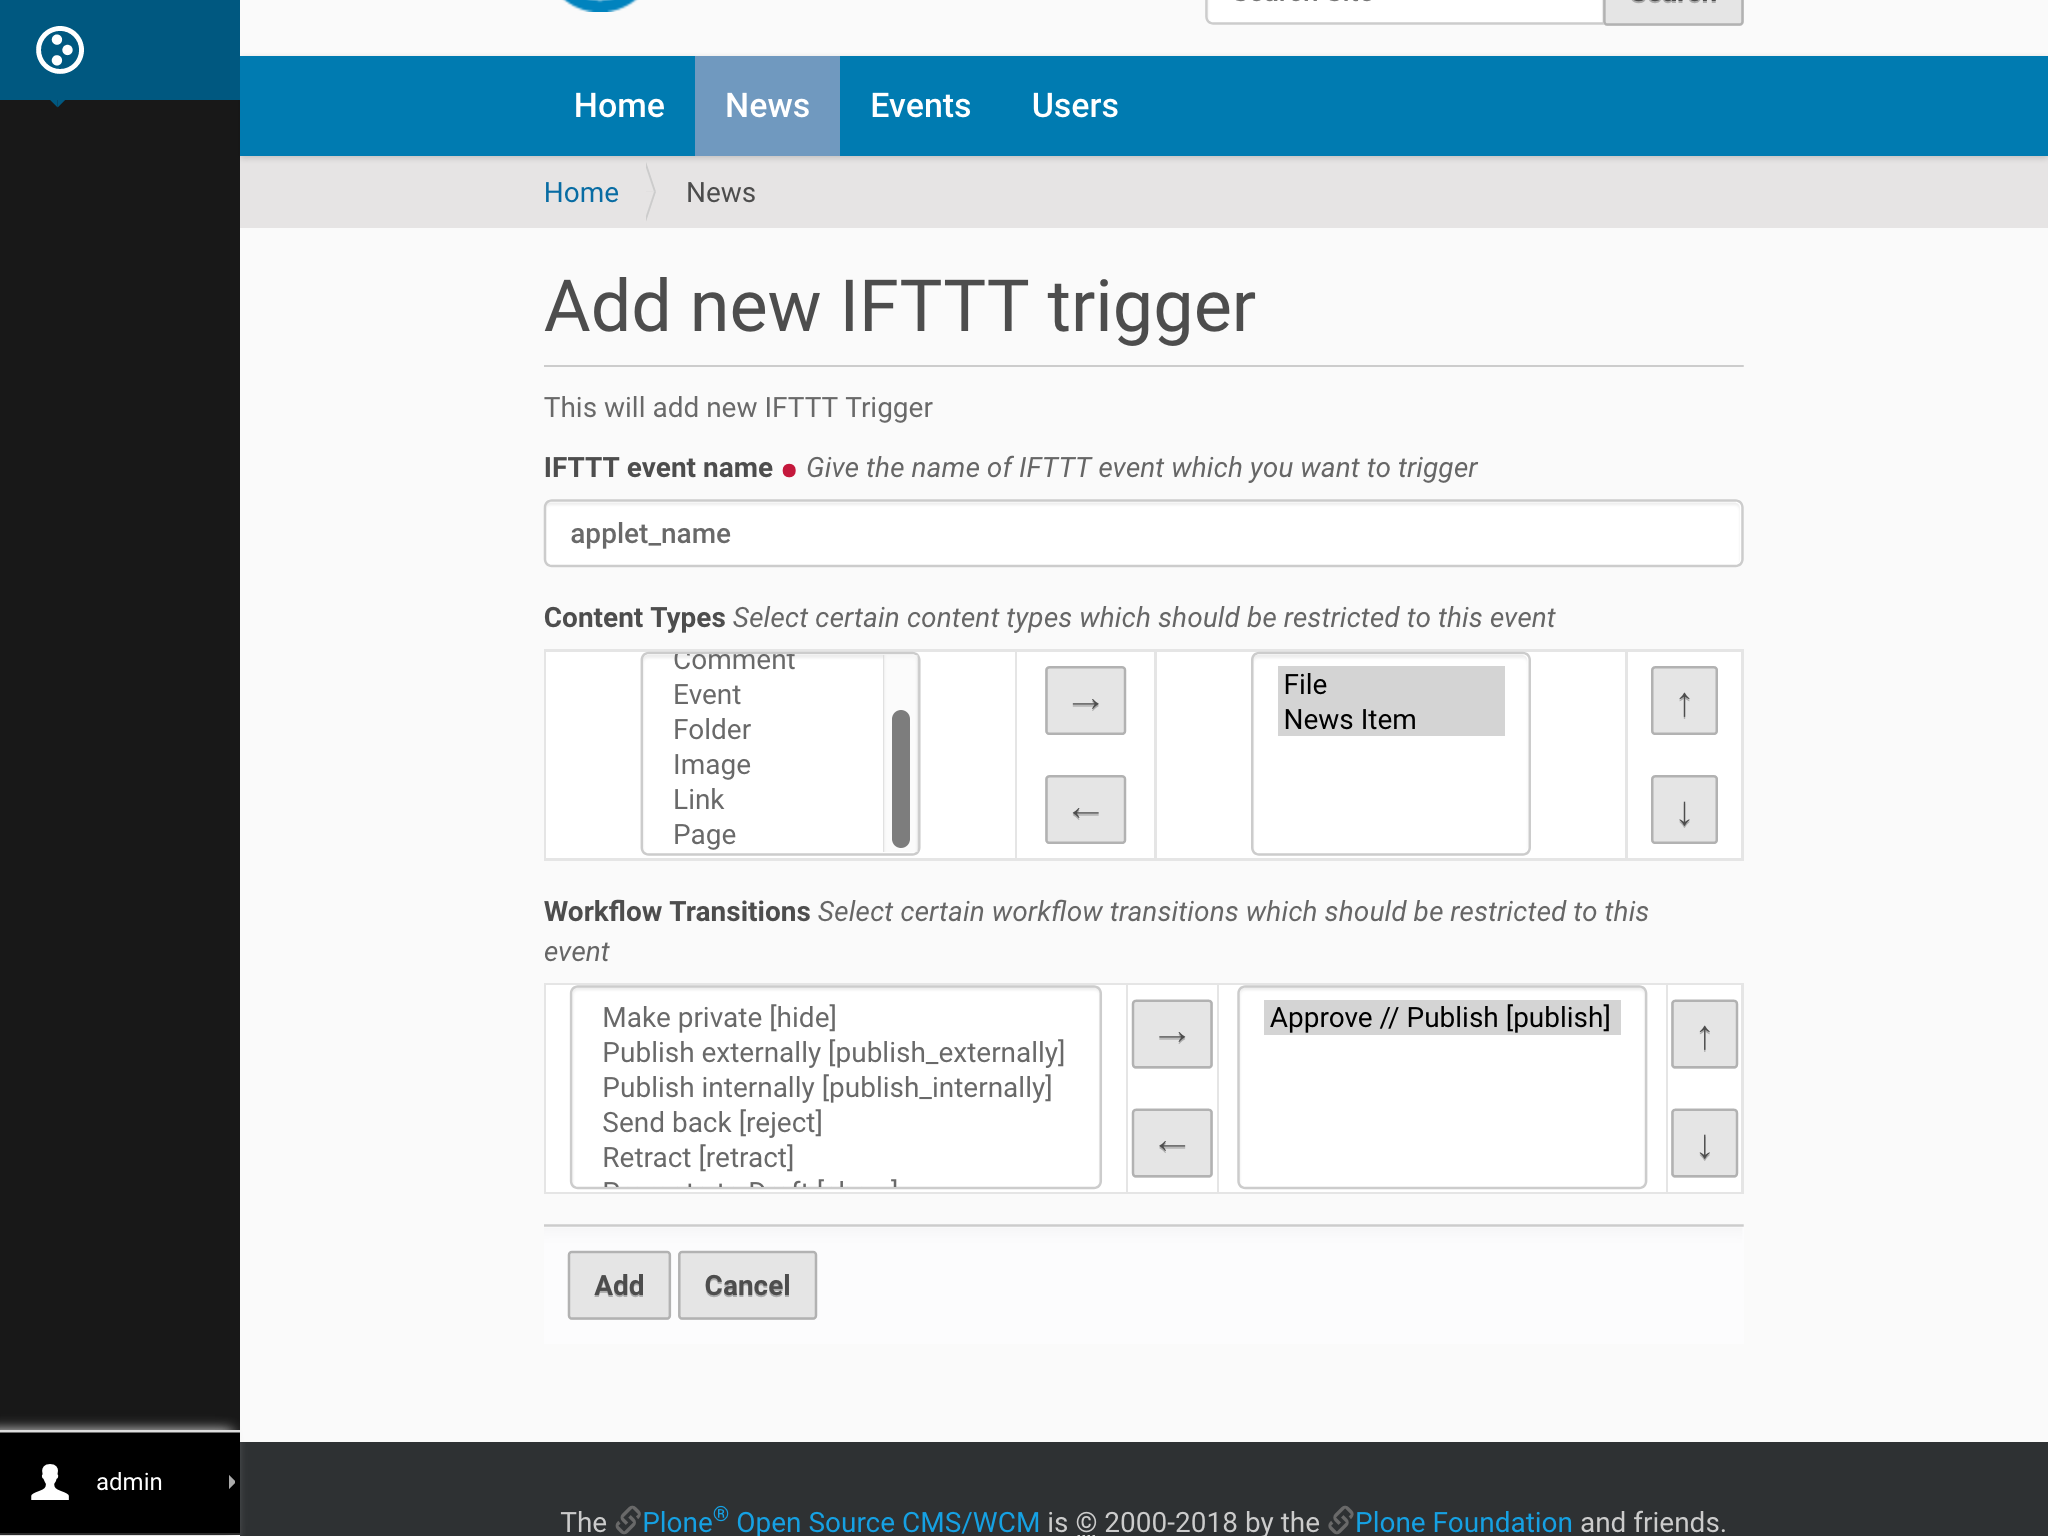
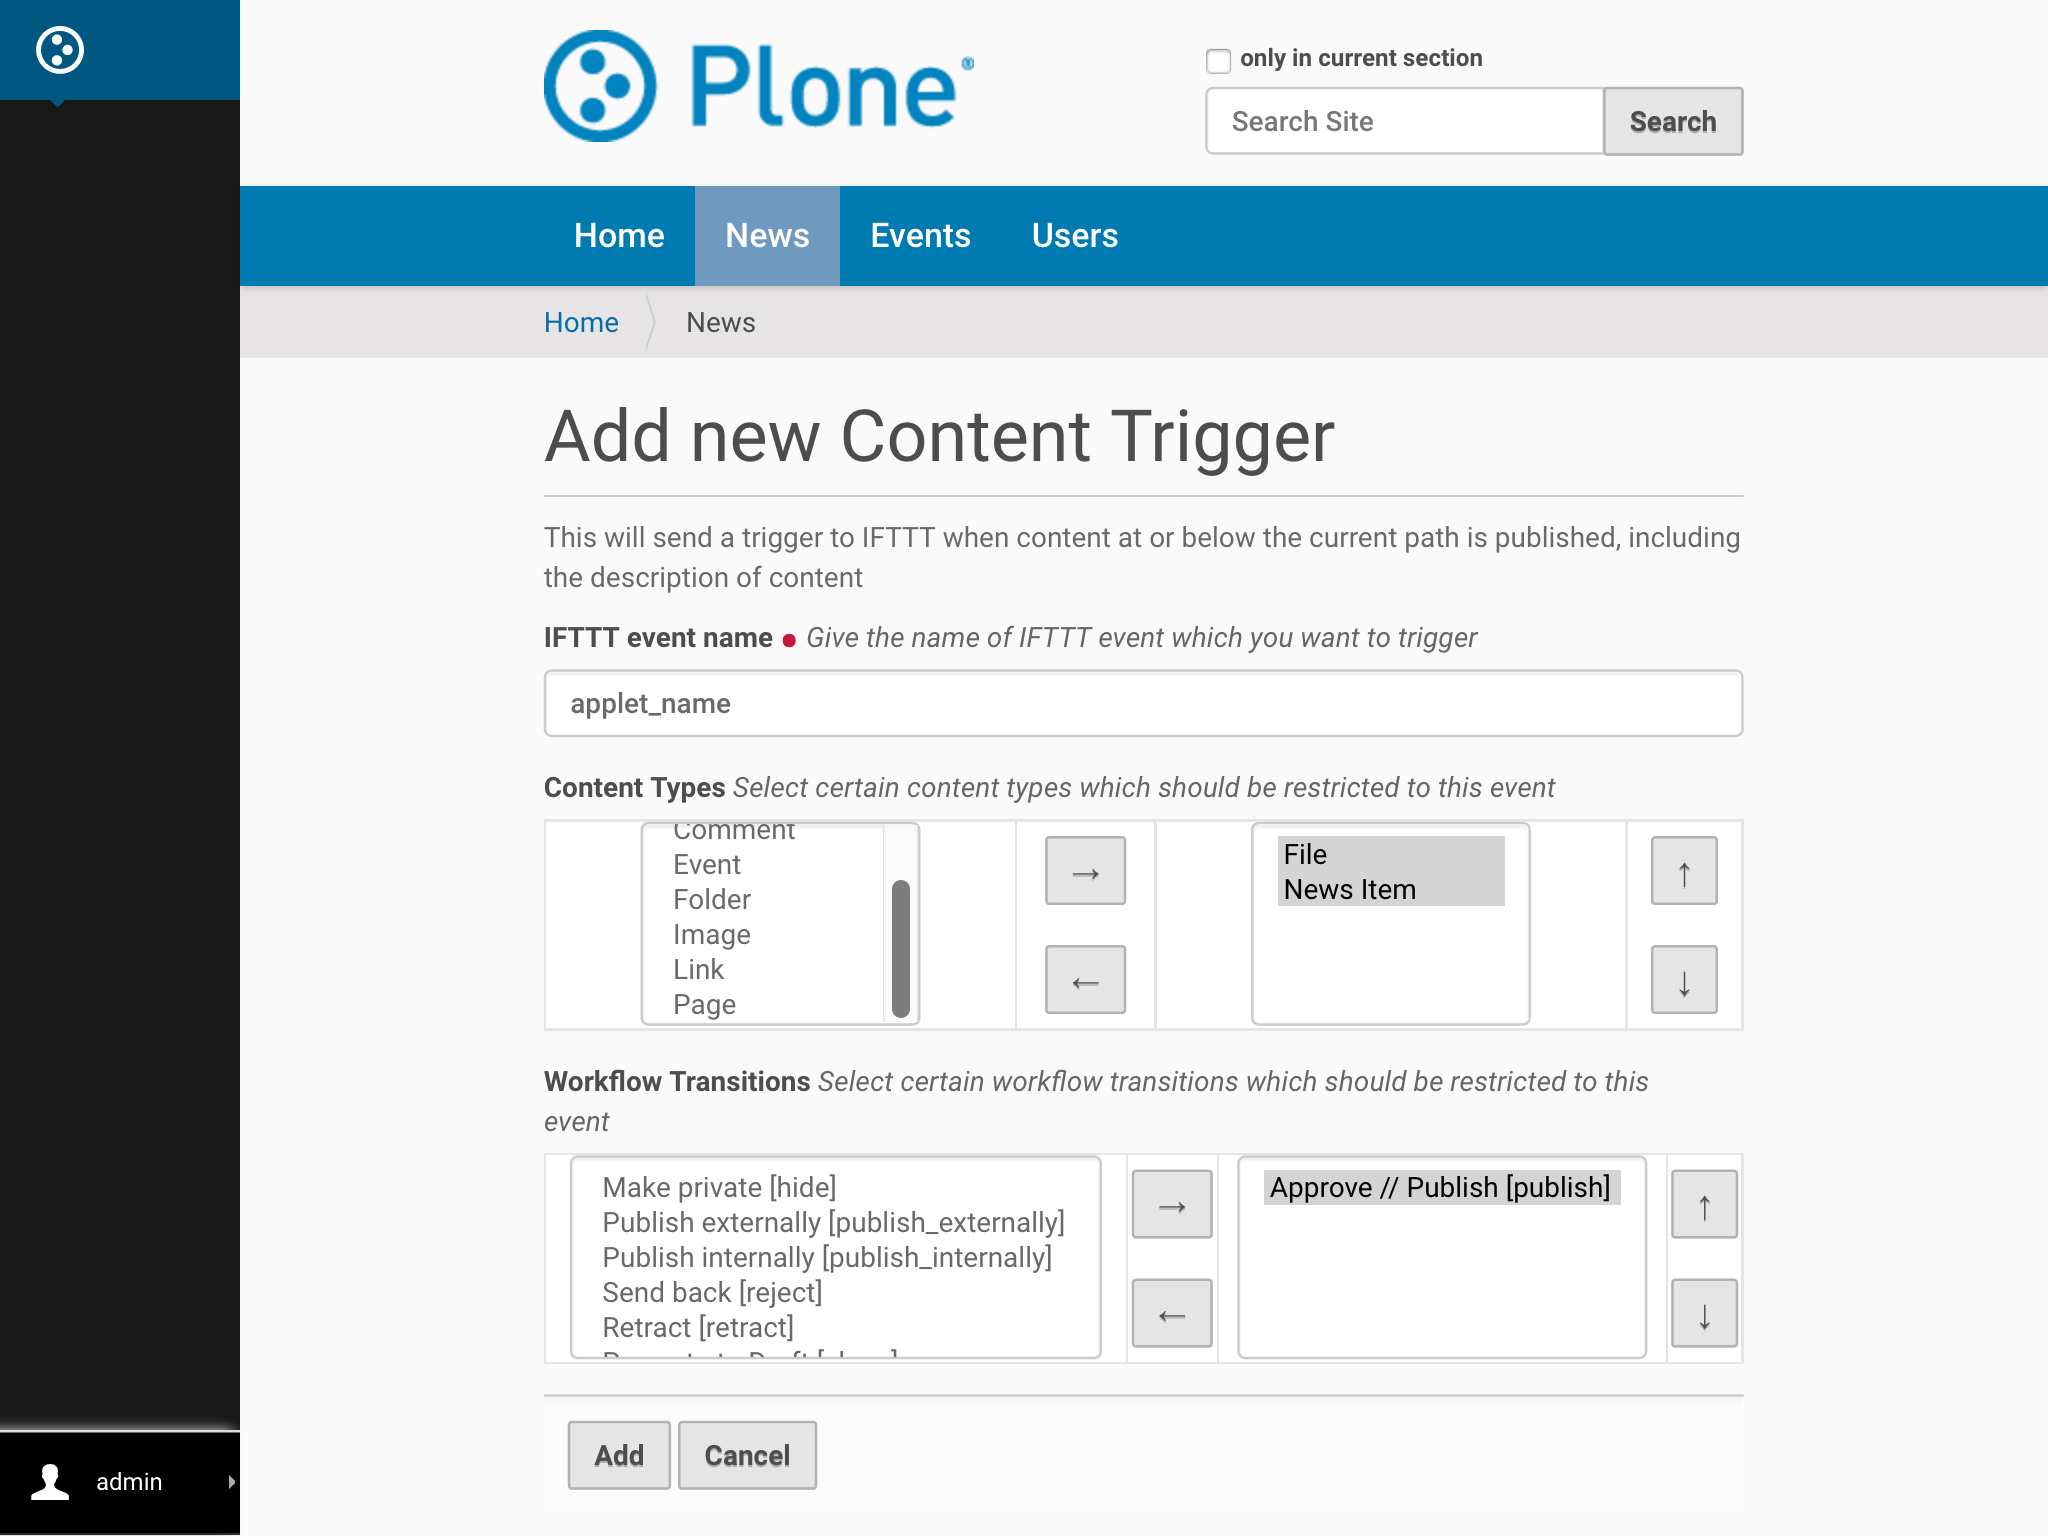
added documentation along with updated labels

Changed region(s): [[0.25, 0.25, 0.875, 0.875], [0.0938, 0.0, 1.0, 0.2188], [0.0938, 0.9062, 1.0, 1.0]]

diff --git a/src/collective/ifttt/browser/user_trigger.py b/src/collective/ifttt/browser/user_trigger.py
@@ -55,8 +55,12 @@ class UserTrigger(AutoExtensibleForm, form.Form):
     ignoreContext = True
     form_name = 'user_content_trigger'
 
-    label = _(u'Add new IFTTT trigger')
-    description = _(u'This will add new IFTTT Trigger')
+    label = _(u'Add new Content and User Trigger')
+    description = _(
+        u'This will send a trigger to IFTTT when content '
+        u'at or below the current path is edited, including '
+        u'the information of who changed it. '
+    )
 
     def update(self):
         # disable Plone's editable border
@@ -76,7 +80,8 @@ class UserTrigger(AutoExtensibleForm, form.Form):
             # all the backend magic goes here
             '''
             available keys for data
-            ifttt_event_name, content_types, workflow_transitions, payload, workflow_states
+            ifttt_event_name, content_types, workflow_transitions,
+            payload, workflow_states
             and trigger event
             '''
 

diff --git a/src/collective/ifttt/browser/content_trigger.py b/src/collective/ifttt/browser/content_trigger.py
@@ -69,8 +69,12 @@ class ContentTrigger(AutoExtensibleForm, form.Form):
     ignoreContext = True
     form_name = 'add_ifttt_rule'
 
-    label = _(u'Add new IFTTT trigger')
-    description = _(u'This will add new IFTTT Trigger')
+    label = _(u'Add new Content Trigger')
+    description = _(
+        u'This will send a trigger to IFTTT '
+        u'when content at or below the current path is published, '
+        u'including the description of content'
+    )
 
     def update(self):
         # disable Plone's editable border
@@ -90,7 +94,8 @@ class ContentTrigger(AutoExtensibleForm, form.Form):
             # all the backend magic goes here
             '''
             available keys for data
-            ifttt_event_name, content_types, workflow_transitions, payload, workflow_states
+            ifttt_event_name, content_types, workflow_transitions,
+            payload, workflow_states
             and trigger event
             '''
 

diff --git a/docs/user_trigger.rst b/docs/user_trigger.rst
@@ -1,28 +1,28 @@
-Content Trigger
-===============
+Content and User Trigger
+========================
 
 This document will guide admins to
-add an IFTTT "Content Trigger" to any folder on their site
-that will send a trigger to IFTTT when content at or
-below the current path is published.
-This will allow them to create IFTTT applets to,
-for example, email, tweet, or Facebook post about the content.
+add an IFTTT "Content and User Trigger" to any folder on their site
+that will send a trigger to IFTTT when content at or below the
+current path is edited, including the information of who changed it.
+This will allow them to create IFTTT applets to, for example,
+log the edit information to Slack or a Google spreadsheet.
 
-Follow the steps given below to Add an IFTTT Content Trigger onto any folder.
+Follow the steps given below to Add an IFTTT User Trigger onto any folder.
 
 1. Traverse to folder on which you desire to apply IFTTT content trigger.
 
-2. From actions menu select ``Add Ifttt Content Trigger``
+2. From actions menu select ``Add Ifttt User Trigger``
 
 .. image:: _static/images/add_ifttt_content_trigger/select_actions.png
 
 3. Fill the given form with required values and click ``Add``
 
-.. image:: _static/images/add_ifttt_content_trigger/fill_form.png
+.. image:: _static/images/add_ifttt_user_trigger/fill_form.png
 
 4. Tada, trigger has been applied on your folder!!
 
-.. image:: _static/images/add_ifttt_content_trigger/success.png
+.. image:: _static/images/add_ifttt_user_trigger/success.png
 
 
 Behind the Scenes
@@ -51,10 +51,8 @@ creation of content rule.
 Conditions
 ^^^^^^^^^^
 
-1. Default Trigger condition for this content rule is: ``Workflow state changed``
+Default Trigger condition for this content rule is: ``Object Modified``
 
-2. Default contition for this content rule is: Workflow State as
-``published``
 
 Data sent to IFTTT applet
 ^^^^^^^^^^^^^^^^^^^^^^^^^
@@ -64,5 +62,5 @@ In the data sent to IFTTT, following values will be dynamically included
 
 - Title
 - Absolute_url
-- Description
+- Username who modified the content
 

diff --git a/docs/index.rst b/docs/index.rst
@@ -55,6 +55,7 @@ so you can create more customized applets.
    Configuring_Your_IFTTT_Secret_Key
    Trigger_IFTTT_Action
    content_trigger
+   user_trigger
 
 
 
